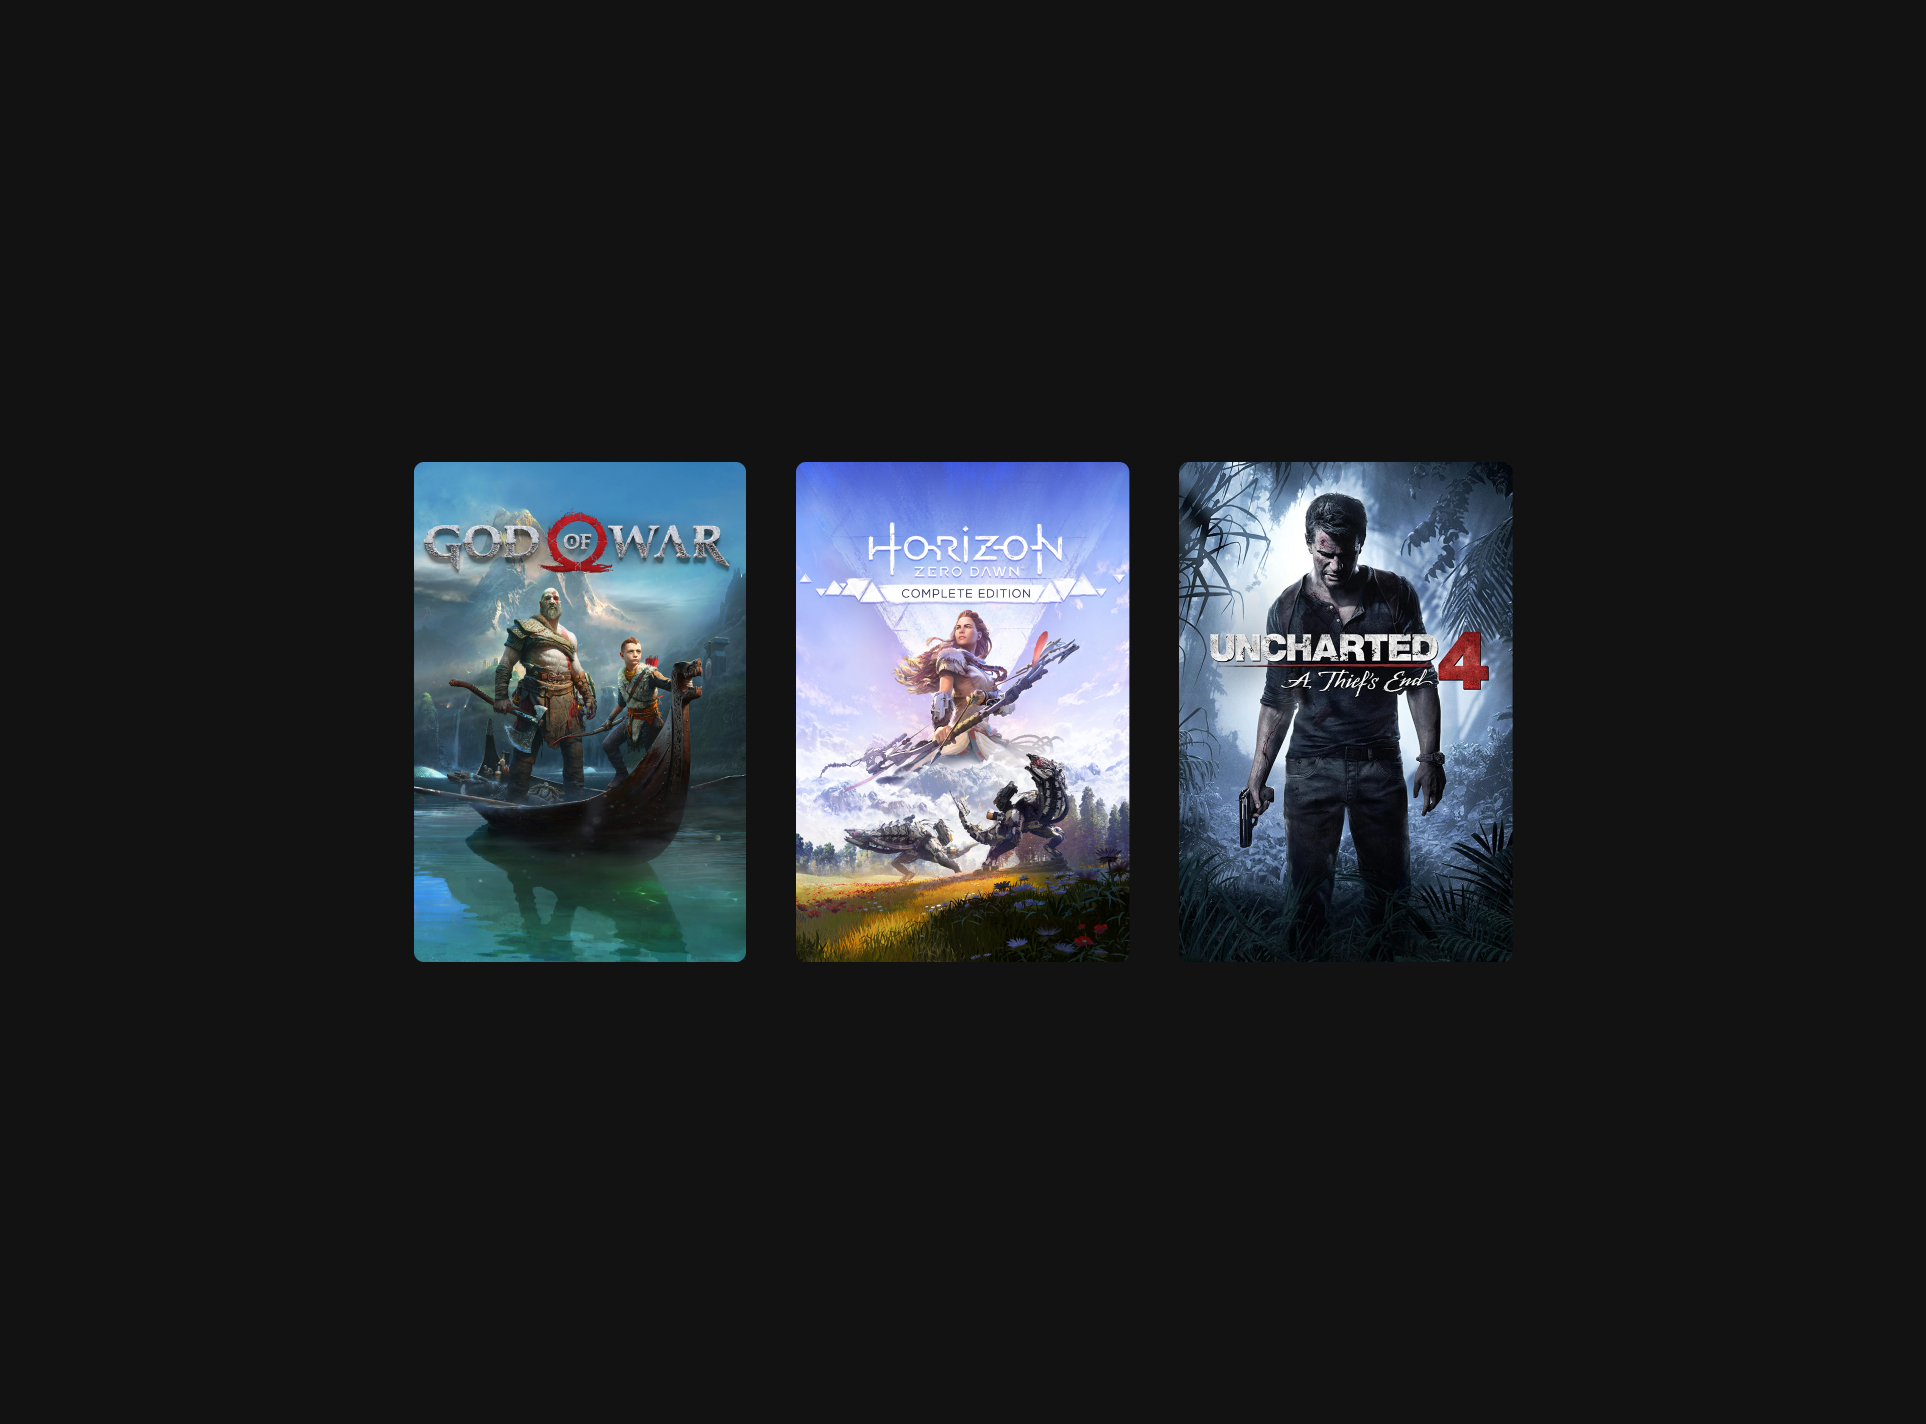
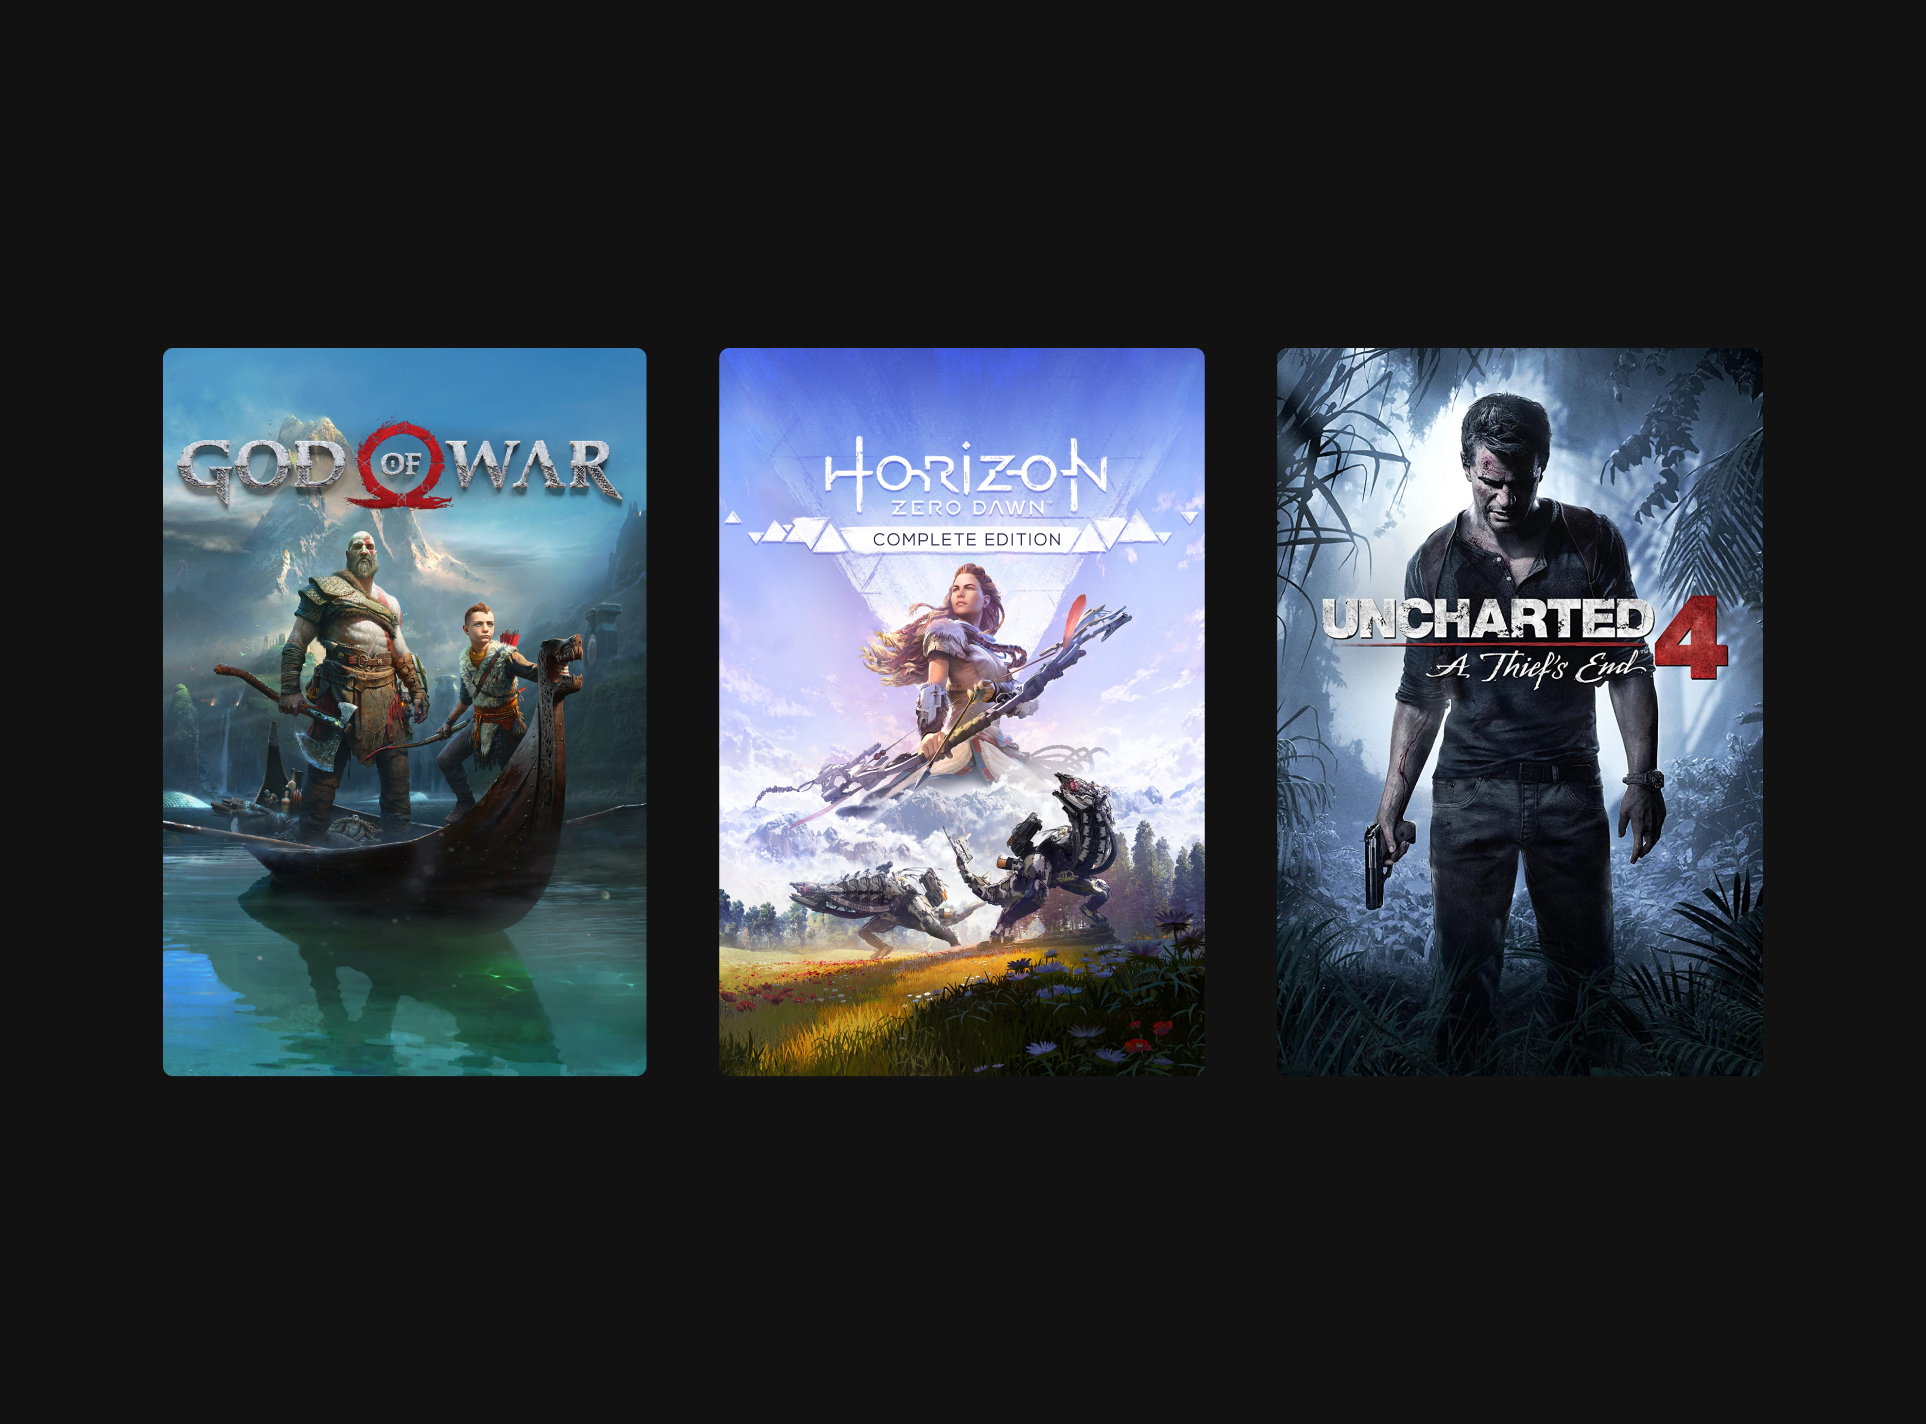
critique updates

diff --git a/final/css/styles.css b/final/css/styles.css
@@ -234,10 +234,10 @@ img {
   }
 
   .content-section {
-    justify-content: space-between;
+    justify-content: center;
   }
   .content-box {
-    width: 48%;
+    width: 80%;
     min-height: 200px;
     max-height: none;
     height: auto;
@@ -341,12 +341,12 @@ img {
     width: 100%;
     padding: 1rem;
     display: flex;
-    flex-wrap: wrap;
-    justify-content: space-between;
+    /* flex-wrap: wrap; */
+    justify-content: center;
   }
 
   .content-box {
-    width: 48%;
+    width: 75%;
     min-height: 200px;
     max-height: none;
     height: auto;
@@ -363,6 +363,7 @@ img {
     justify-content: center;
   }
   .image-box {
-    width: 31%;
+    width: 45%;
+    margin: 0 1rem;
   }
 }

diff --git a/final/index.html b/final/index.html
@@ -165,6 +165,9 @@
           <img src="./images/frame4.jpg" />
         </div>
         <div class="image-box">
+          <img src="./images/frame5.jpg" />
+        </div>
+        <div class="image-box">
           <img src="./images/frame6.jpg" />
         </div>
         <div class="image-box">
@@ -172,12 +175,6 @@
         </div>
         <div class="image-box">
           <img src="./images/frame8.jpg" />
-        </div>
-        <div class="image-box">
-          <img src="./images/frame9.jpg" />
-        </div>
-        <div class="image-box">
-          <img src="./images/frame10.jpg" />
         </div>
         <div class="image-box">
           <img src="./images/frame1.jpg" />
